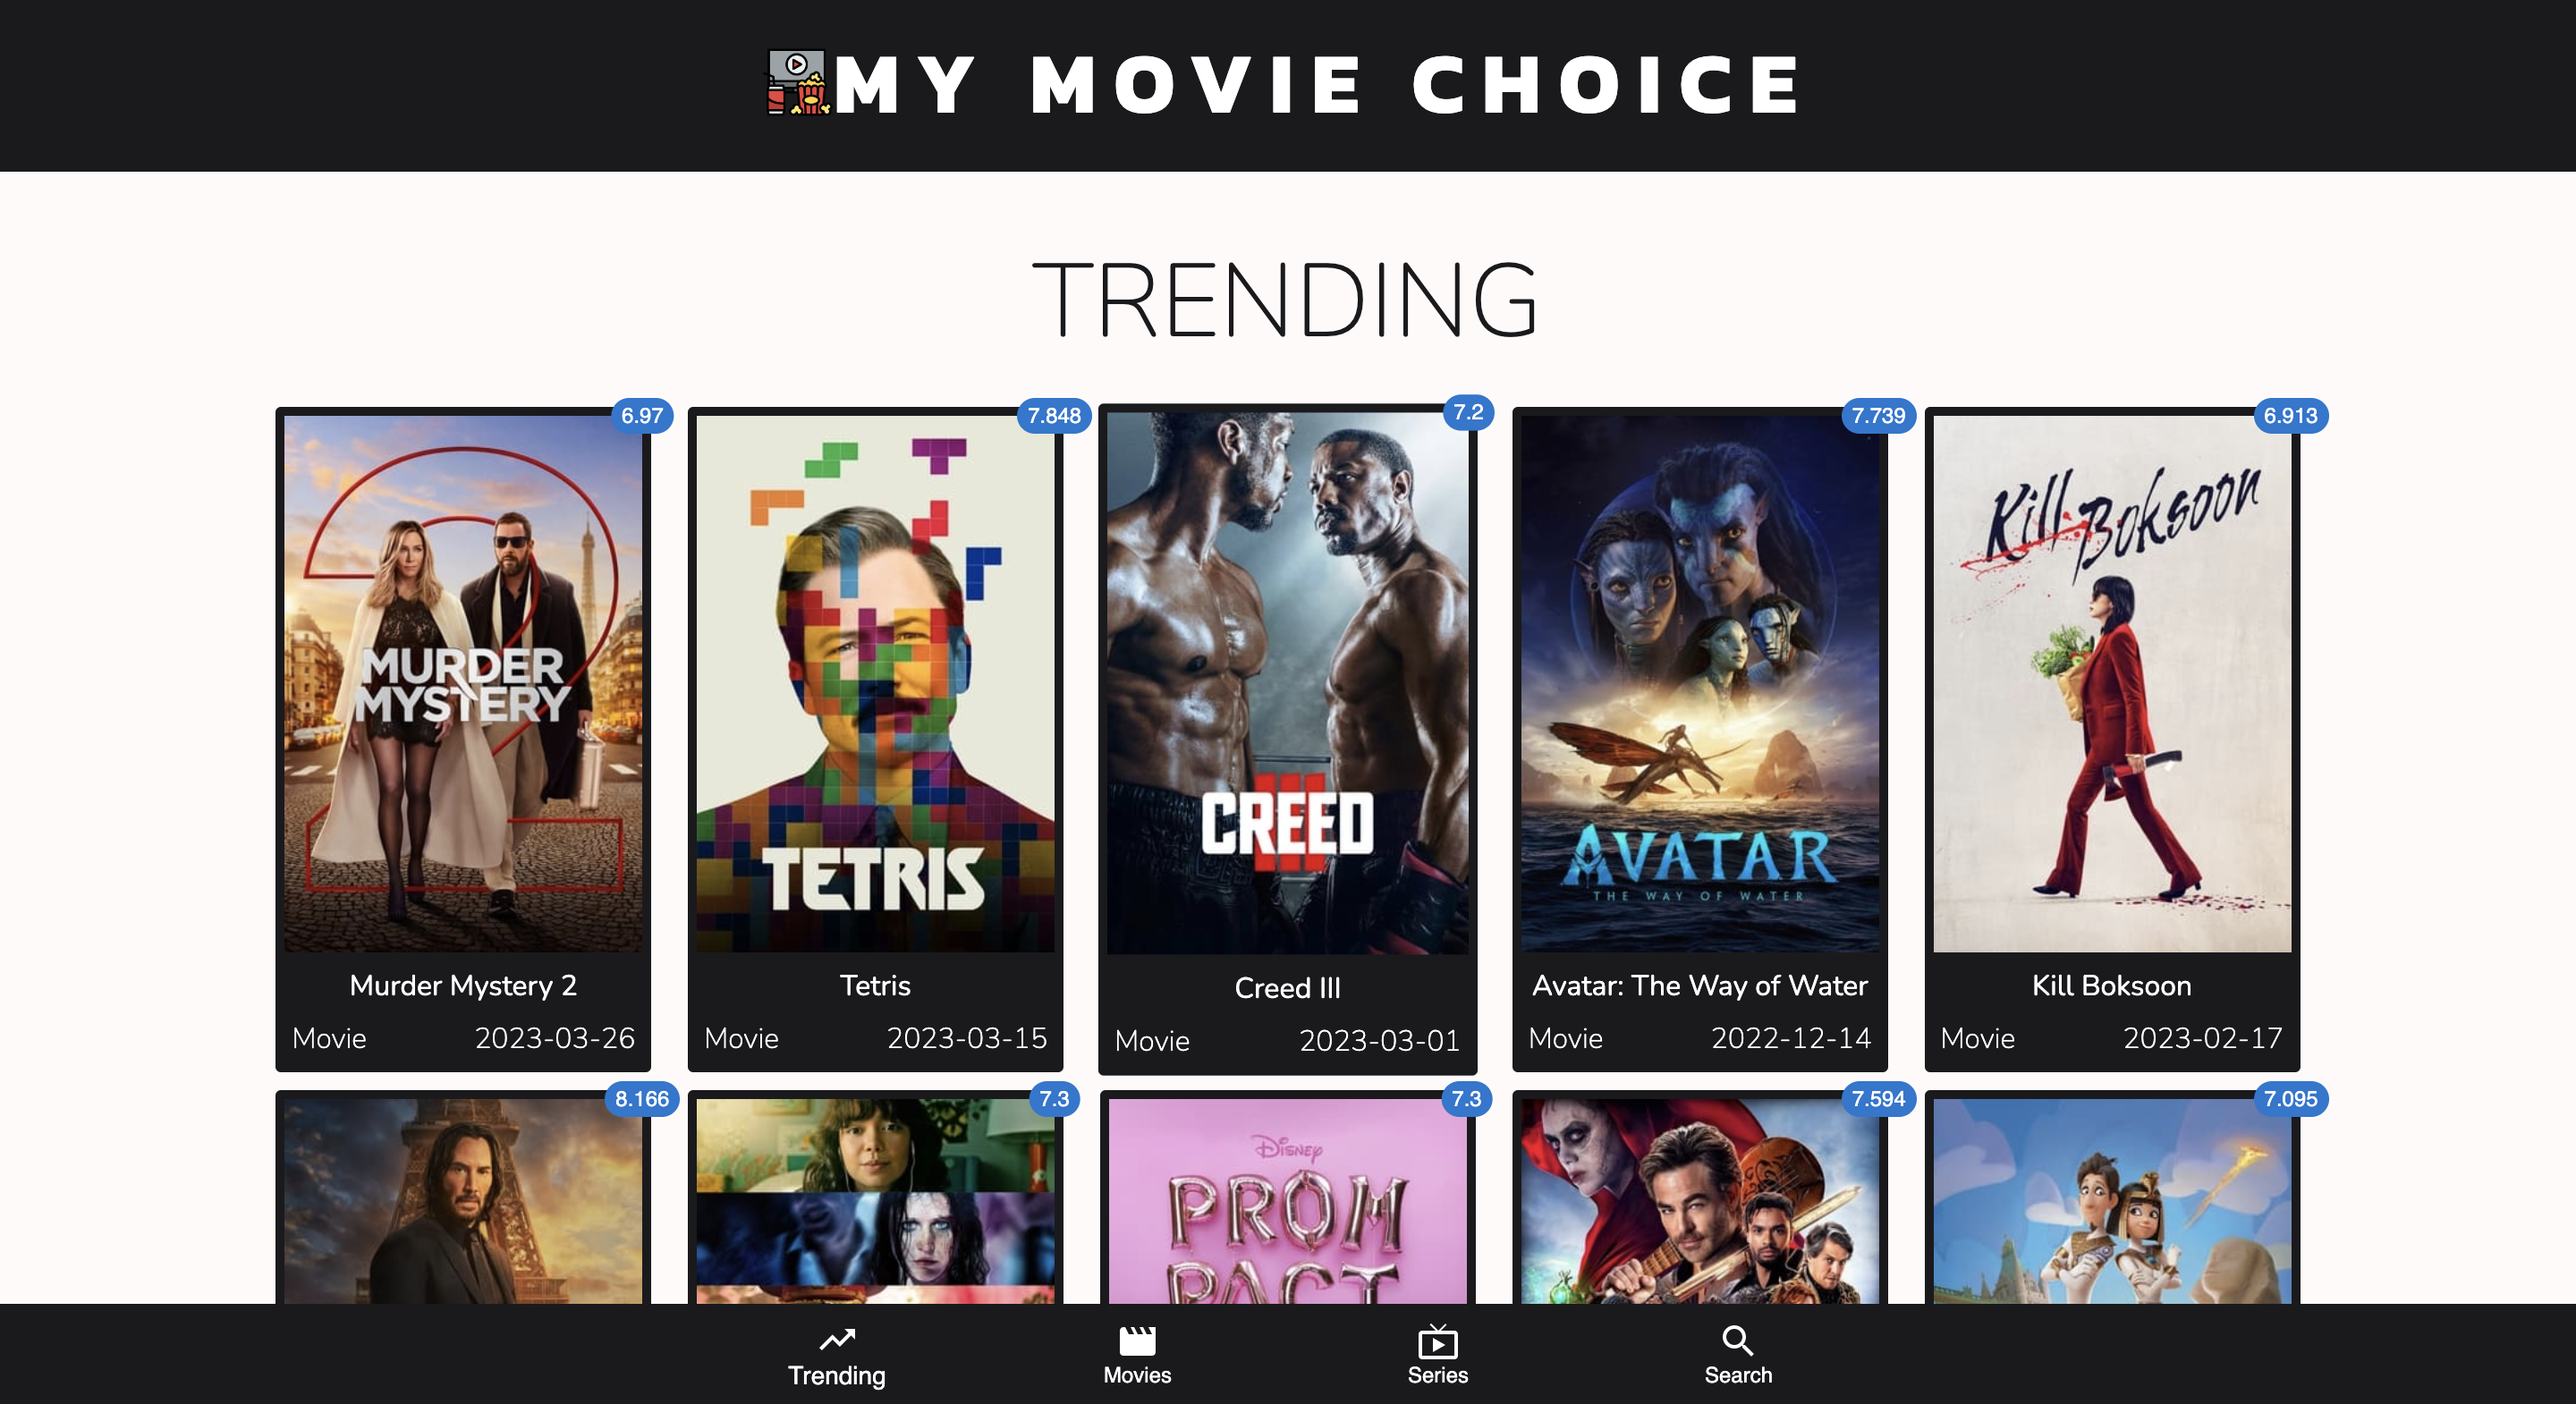
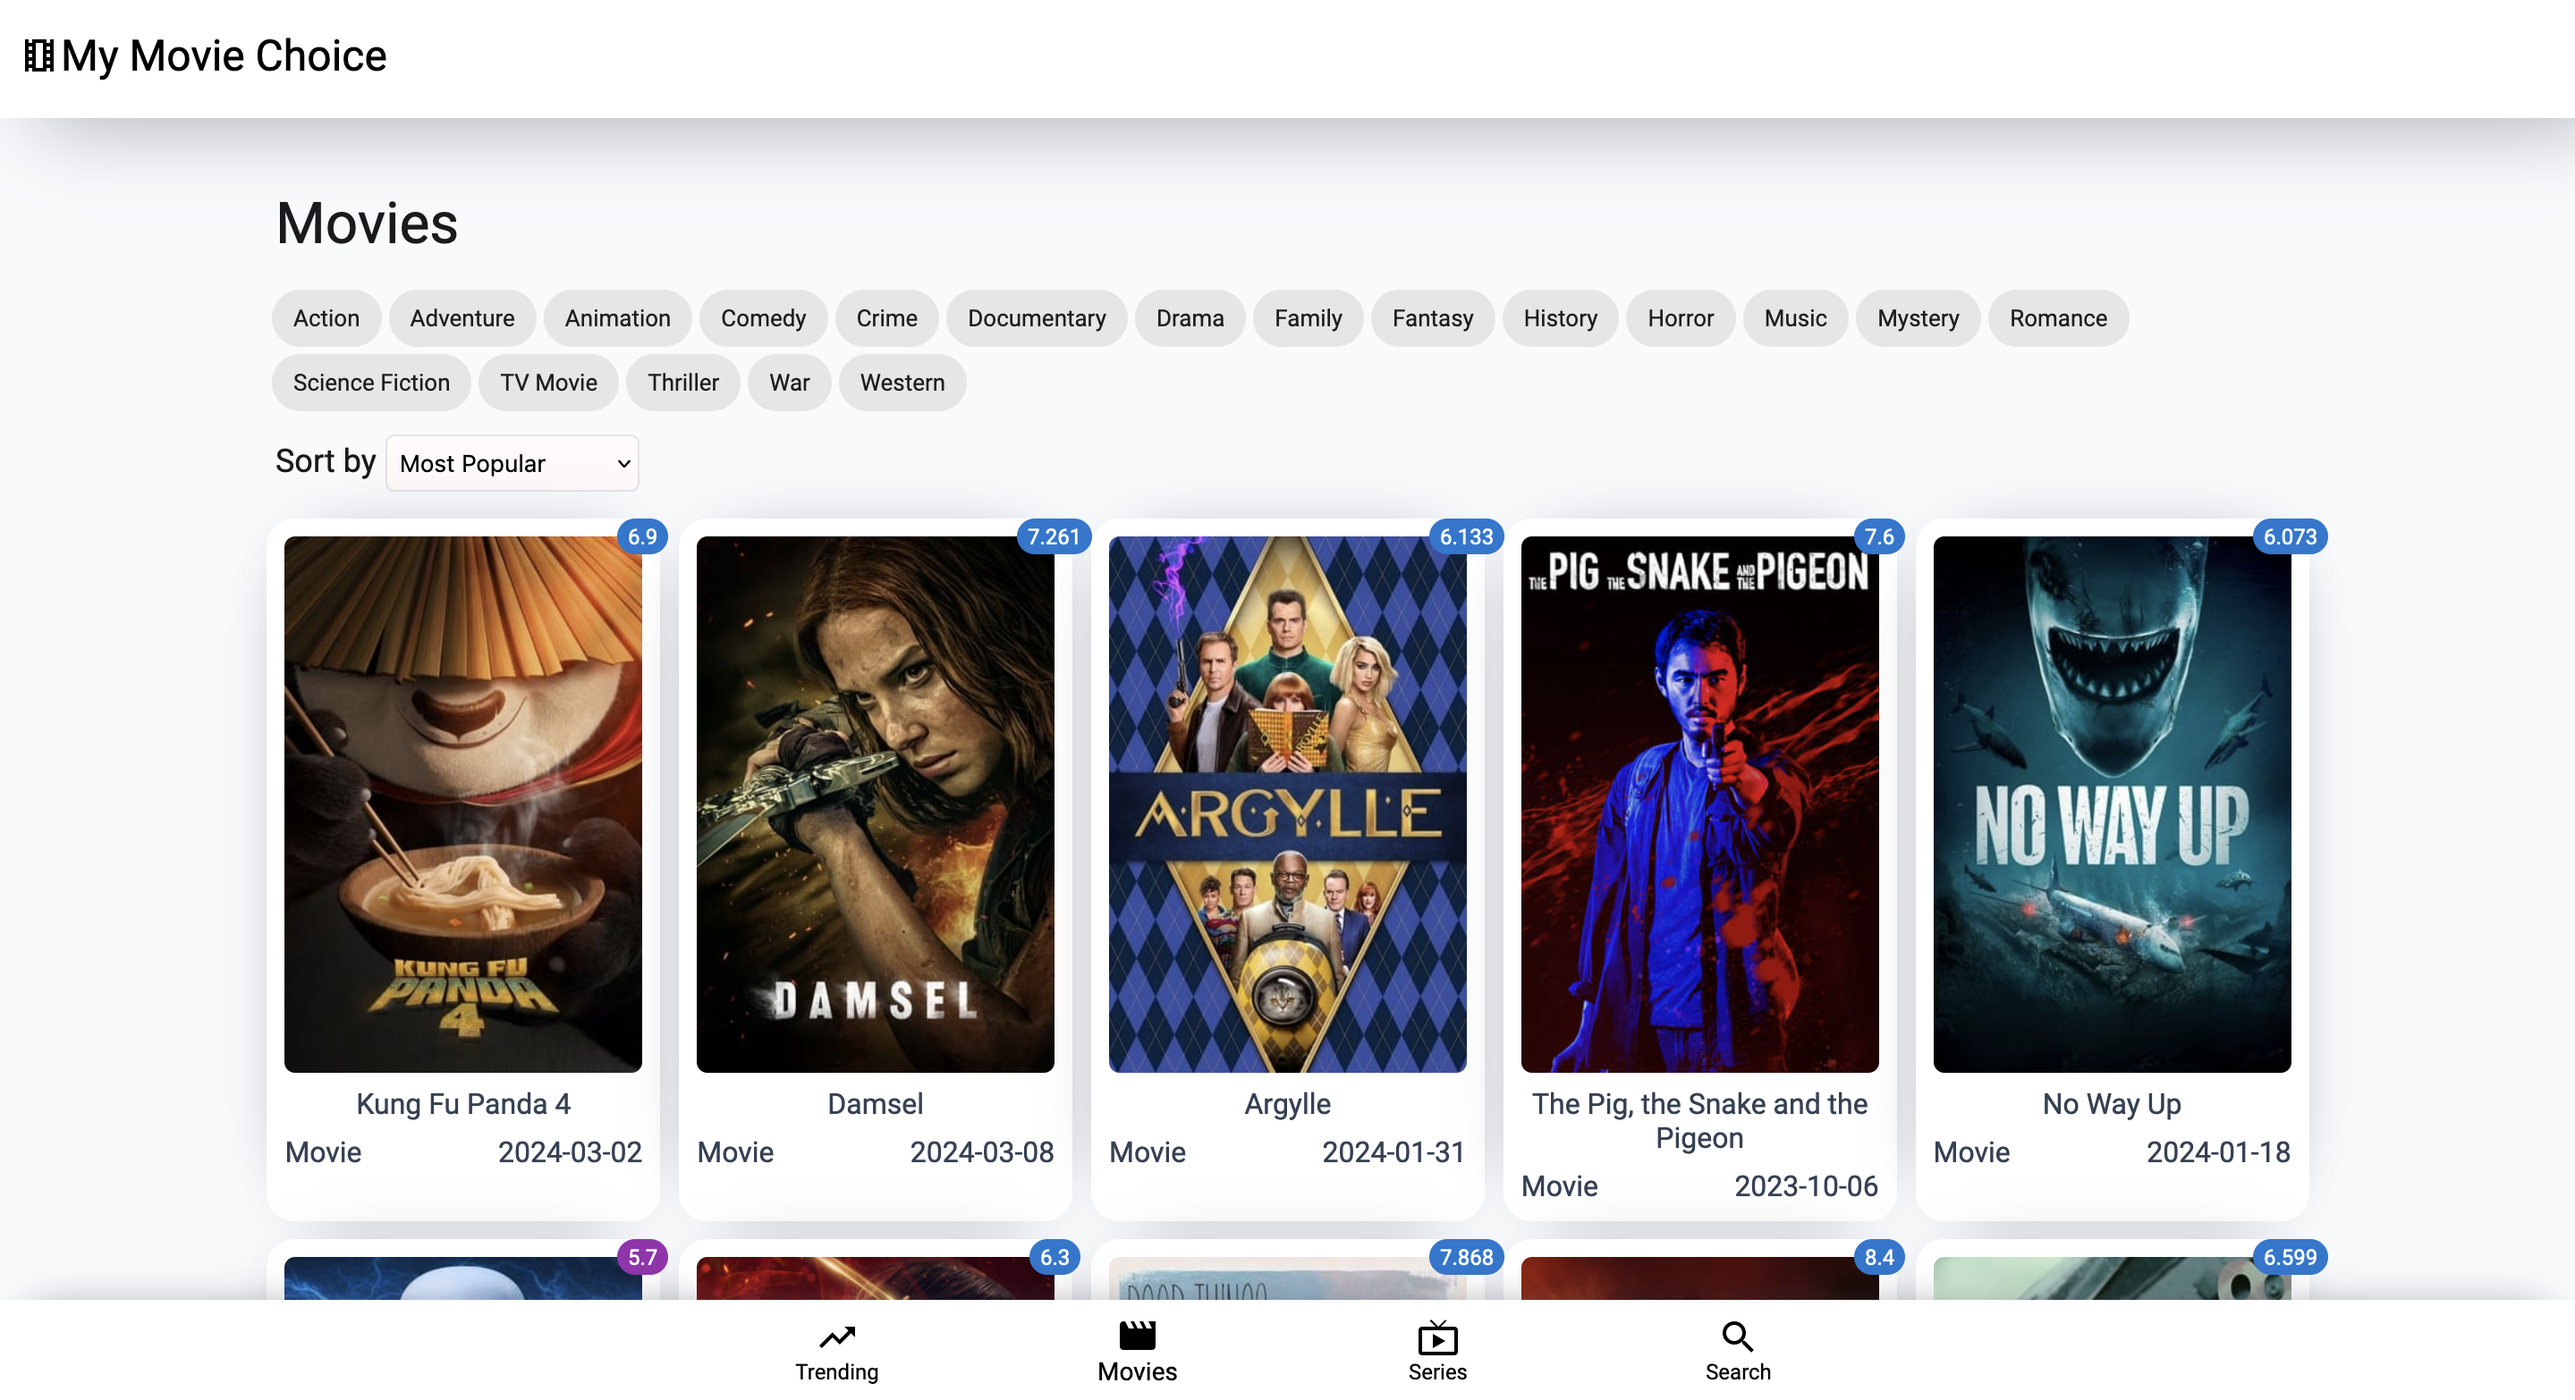
change design

diff --git a/src/main.tsx b/src/main.tsx
@@ -15,7 +15,7 @@ ReactDOM.createRoot(document.getElementById('root')as HTMLElement).render(
       <BrowserRouter>
       <QueryClientProvider client={queryClient}>
               <App/>
-              <ReactQueryDevtools/>
+              {/*<ReactQueryDevtools/>*/}
       </QueryClientProvider>
       </BrowserRouter>
 )

diff --git a/src/components/Header/Header.tsx b/src/components/Header/Header.tsx
@@ -4,7 +4,7 @@ import { MdOutlineLocalMovies } from "react-icons/md";
 
 const Header = () => {
     return <div className={s.header} onClick={()=> window.scroll(0,0)}>
-        <MdOutlineLocalMovies/> MovieMani
+        <MdOutlineLocalMovies/> My Movie Choice
     </div>;
 }
 

diff --git a/src/styles/App.scss b/src/styles/App.scss
@@ -4,7 +4,7 @@
 
 .app-wrapper{
     min-height: 100vh;
-    background-color: #fffafa;
+    background-color: #f8fafc;
     padding-top: 100px;
     padding-bottom: 80px;
     color: #1A1A1D;

diff --git a/src/App.tsx b/src/App.tsx
@@ -26,8 +26,6 @@ const App = () => {
         </Container>
     </div>
       <SimpleBottomNavigation/>
-
-
       </>
     )
 
